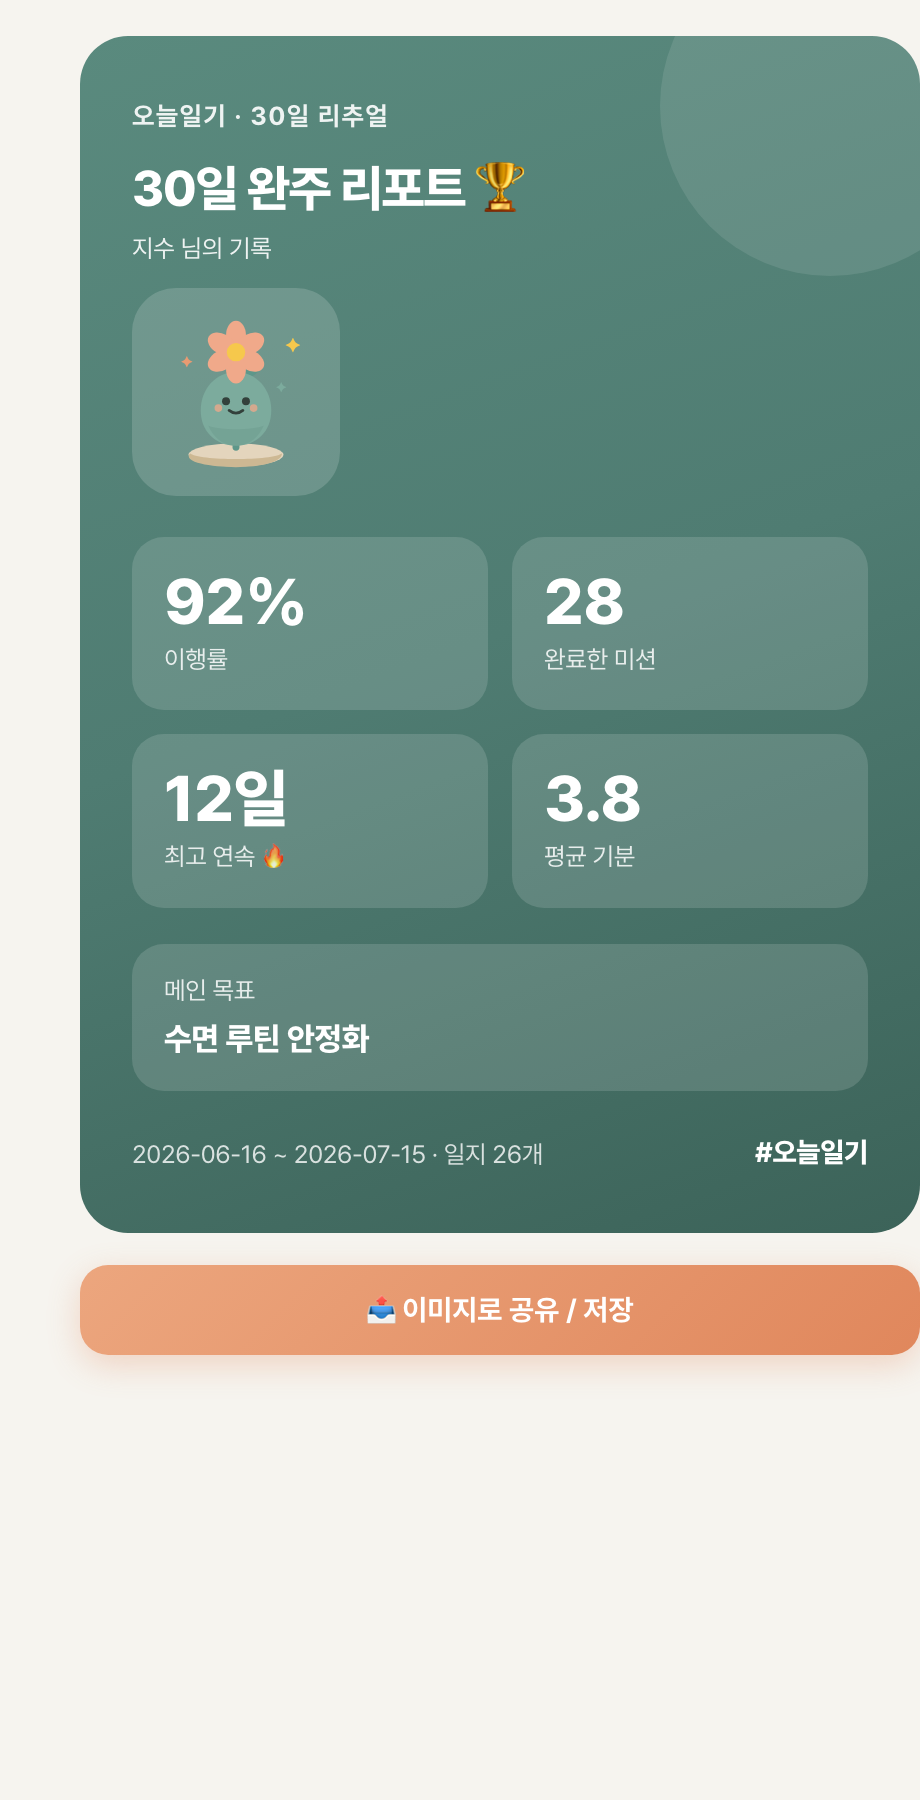
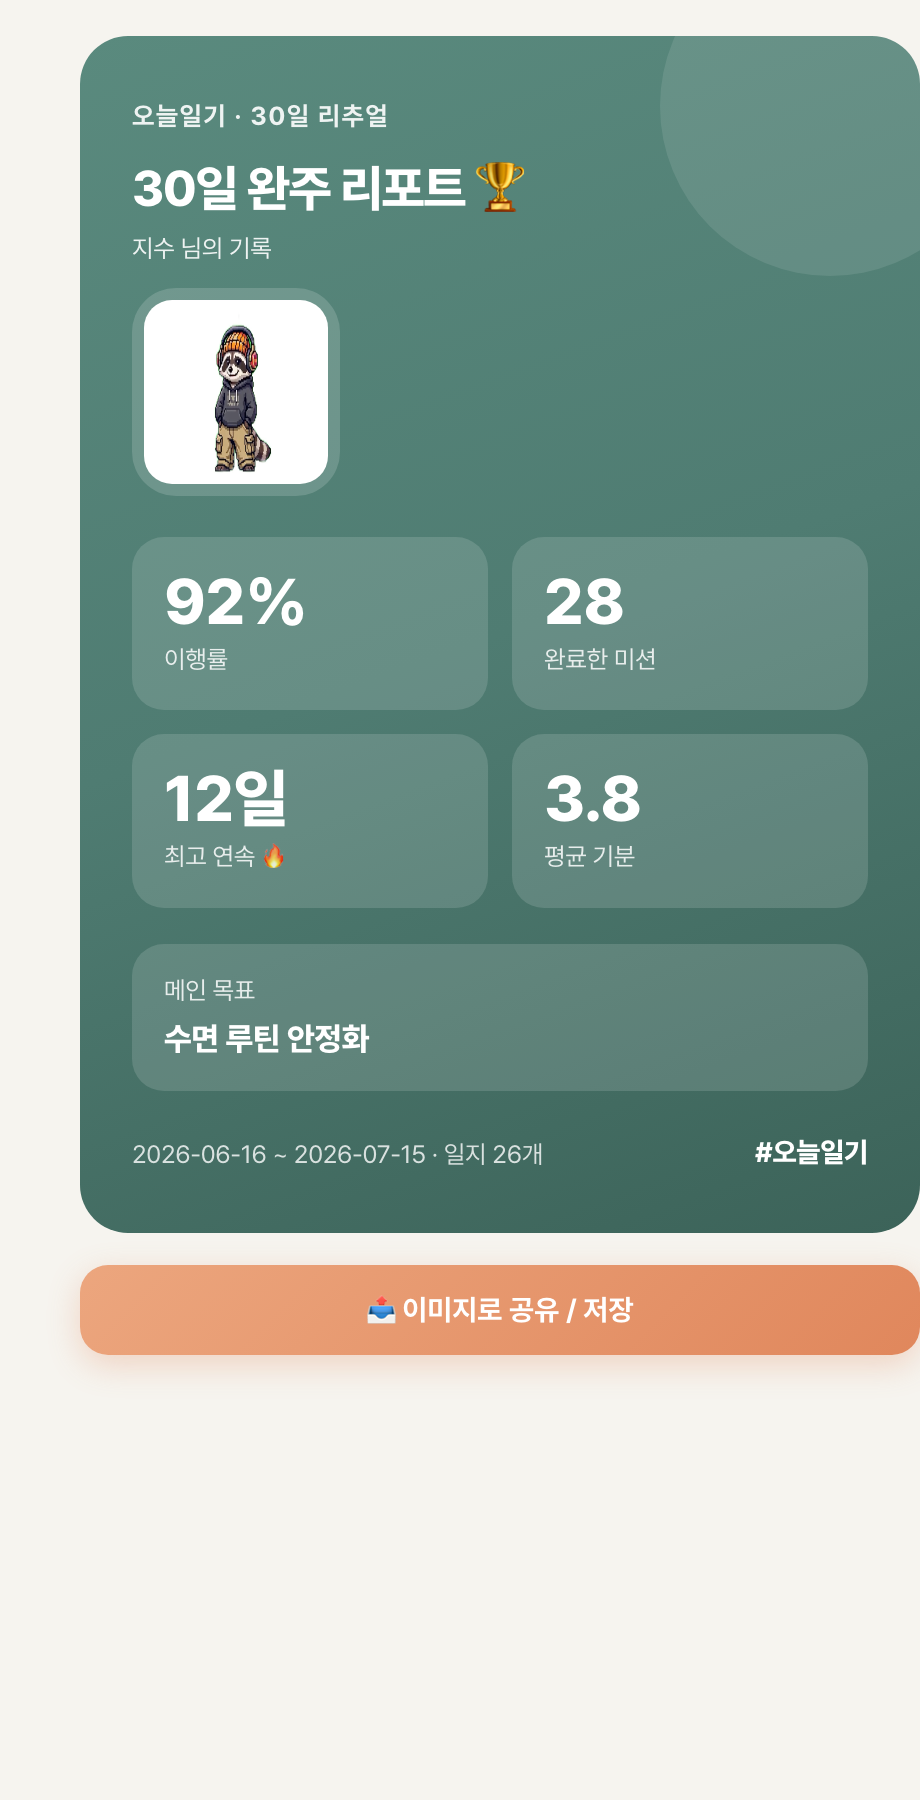
캐릭터 단계별 응원 메시지 + 가이드북 재작성(PDF)
- 오늘이(너구리) 4단계에 이미지별 응원 한 줄(첫걸음/차근차근/몰입/완전체), 방전(시듦) 문구
- 성장 가이드 행 메시지 중심으로, '단계·단계' 중복 제거
- 가이드북 PDF 재작성: 표지 컴팩트·여백 축소·페이지 안 잘리게(break-inside)
- 홈/리캡 예시 + 캐릭터 컷을 새 너구리 정지컷으로 교체

Changed region(s): [[0.1522, 0.1556, 0.3652, 0.28]]

diff --git a/docs/guidebook.html b/docs/guidebook.html
@@ -3,55 +3,55 @@
 <head>
 <meta charset="UTF-8">
 <style>
-  @page { size: A4; margin: 15mm 14mm; }
+  @page { size: A4; margin: 11mm 12mm; }
   * { box-sizing: border-box; }
   body { font-family: 'Apple SD Gothic Neo','Pretendard','Malgun Gothic',sans-serif;
-    color: #262B29; line-height: 1.6; margin: 0; -webkit-print-color-adjust: exact; print-color-adjust: exact; }
-  h1 { font-size: 24px; letter-spacing: -0.03em; margin: 0 0 6px; }
-  h2 { font-size: 19px; letter-spacing: -0.02em; margin: 30px 0 6px; padding-bottom: 6px;
-    border-bottom: 2px solid #4F7C72; color: #3C6359; }
-  h3 { font-size: 15.5px; margin: 18px 0 6px; color: #2E3A36; }
-  p, li { font-size: 13px; color: #3a423e; }
+    color: #262B29; line-height: 1.5; margin: 0; -webkit-print-color-adjust: exact; print-color-adjust: exact; font-size: 12.5px; }
+  h1 { font-size: 22px; letter-spacing: -0.03em; margin: 0; }
+  h2 { font-size: 17px; letter-spacing: -0.02em; margin: 18px 0 8px; padding-bottom: 5px;
+    border-bottom: 2px solid #4F7C72; color: #3C6359; break-after: avoid; }
+  h3 { font-size: 14px; margin: 0 0 5px; color: #2E3A36; }
+  p, li { font-size: 12px; color: #3a423e; margin: 4px 0; }
+  ul { margin: 4px 0; padding-left: 17px; }
+  li { margin: 2px 0; }
   .muted { color: #8B948F; }
-  .cover { height: 250mm; display: flex; flex-direction: column; justify-content: center;
-    page-break-after: always; }
-  .cover .logo { width: 60px; height: 60px; border-radius: 18px;
-    background: linear-gradient(135deg,#4F7C72,#3C6359); position: relative; margin-bottom: 22px; }
-  .cover .logo span { position: absolute; inset: 17px; border: 3px solid rgba(255,255,255,.9); border-radius: 6px; }
-  .cover h1 { font-size: 38px; }
-  .cover .sub { font-size: 16px; color: #4F7C72; font-weight: 700; margin-top: 8px; }
-  .cover .desc { font-size: 14px; color: #8B948F; margin-top: 18px; line-height: 1.8; }
-  .screen { display: flex; gap: 18px; align-items: flex-start; break-inside: avoid; margin: 16px 0 22px; }
-  .screen img { width: 215px; flex-shrink: 0; border: 1px solid #ECE8E0; border-radius: 14px; }
+  .cover { display: flex; align-items: center; gap: 14px; }
+  .cover .logo { width: 46px; height: 46px; border-radius: 14px; flex-shrink: 0;
+    background: linear-gradient(135deg,#4F7C72,#3C6359); position: relative; }
+  .cover .logo span { position: absolute; inset: 13px; border: 2.5px solid rgba(255,255,255,.9); border-radius: 5px; }
+  .cover .sub { font-size: 13px; color: #4F7C72; font-weight: 700; margin-top: 3px; }
+  .lead { background: #F1F5F3; border-radius: 10px; padding: 9px 13px; font-size: 12px; color: #44504b; margin: 10px 0 4px; }
+  .screen { display: flex; gap: 16px; align-items: flex-start; break-inside: avoid; margin: 10px 0; }
+  .screen img { width: 196px; flex-shrink: 0; border: 1px solid #ECE8E0; border-radius: 12px; }
   .screen .txt { flex: 1; }
-  .wide { break-inside: avoid; margin: 14px 0 22px; }
-  .wide img { width: 100%; border: 1px solid #ECE8E0; border-radius: 14px; }
-  .chip { display: inline-block; background: #E7F0ED; color: #3C6359; font-weight: 700;
-    font-size: 11px; padding: 2px 9px; border-radius: 999px; }
-  table { border-collapse: collapse; width: 100%; margin: 8px 0; font-size: 12.5px; }
-  th, td { border: 1px solid #ECE8E0; padding: 6px 9px; text-align: left; }
-  th { background: #FBFAF7; }
-  .note { background: #FBF3DE; border: 1px solid #EBDBA8; border-radius: 10px; padding: 10px 13px;
-    font-size: 12.5px; color: #7a6a2e; margin: 10px 0; }
+  .wide { break-inside: avoid; margin: 8px 0 12px; }
+  .wide img { width: 100%; border: 1px solid #ECE8E0; border-radius: 12px; }
   .sec { break-inside: avoid; }
-  ul { margin: 6px 0; padding-left: 18px; }
+  .chip { display: inline-block; background: #E7F0ED; color: #3C6359; font-weight: 700; font-size: 11px; padding: 1px 8px; border-radius: 999px; }
+  table { border-collapse: collapse; width: 100%; margin: 6px 0; font-size: 12px; }
+  th, td { border: 1px solid #ECE8E0; padding: 5px 8px; text-align: left; }
+  th { background: #FBFAF7; }
+  .note { background: #FBF3DE; border: 1px solid #EBDBA8; border-radius: 9px; padding: 8px 12px; font-size: 11.5px; color: #7a6a2e; margin: 8px 0; }
+  .charrow { display: grid; grid-template-columns: repeat(4,1fr); gap: 10px; break-inside: avoid; }
+  .charrow .c { border: 1px solid #ECE8E0; border-radius: 12px; padding: 8px; text-align: center; }
+  .charrow .c img { width: 100%; border-radius: 8px; }
+  .charrow .c b { font-size: 12px; }
+  .charrow .c .m { font-size: 10.5px; color: #4a544f; margin: 3px 0; line-height: 1.35; }
+  .charrow .c .cond { font-size: 10px; color: #8B948F; }
+  .wiltbox { display: flex; align-items: center; gap: 12px; border: 1px solid #ECE8E0; border-radius: 12px; padding: 10px 12px; margin-top: 10px; break-inside: avoid; background: #FBFAF7; }
+  .wiltbox img { width: 70px; border-radius: 8px; }
 </style>
 </head>
 <body>
 
-<!-- 표지 -->
 <div class="cover">
   <div class="logo"><span></span></div>
-  <h1>오늘일기 가이드북</h1>
-  <div class="sub">30일 코칭형 습관 · 일기 앱</div>
-  <div class="desc">멤버는 매일 미션을 인증하고 마음을 기록하고,<br>
-    코치는 곁에서 살펴보며 피드백합니다.<br>
-    — 멤버 / 코치 사용 가이드</div>
+  <div><h1>오늘일기 가이드북</h1><div class="sub">30일 코칭형 습관 · 일기 앱 — 멤버 / 코치 사용 가이드</div></div>
 </div>
+<div class="lead">멤버는 매일 미션을 인증하고 마음을 기록하고, 코치는 곁에서 살펴보며 피드백합니다. 아래 화면은 샘플 데이터 예시입니다.</div>
 
 <h2>1. 시작하기 — 가입</h2>
 <div class="sec">
-  <p>가입 화면에서 <b>멤버 / 코치</b>를 선택합니다.</p>
   <ul>
     <li><b>멤버로 시작</b> → 이름 + <b>담당 코치 이름</b> 입력 (코치 가입 이름과 정확히 일치해야 연결)</li>
     <li><b>코치로 시작</b> → 이름 입력 후 코치 패널로 진입</li>
@@ -62,12 +62,11 @@
 <h2>2. 멤버 가이드</h2>
 
 <div class="screen"><img src="screens/home.png">
-  <div class="txt"><h3>🏠 홈 — 오늘 할 일을 한눈에</h3>
-  <ul><li><b>오늘이 카드</b>: 미션 완료할수록 캐릭터가 성장 (탭 시 성장 가이드)</li>
+  <div class="txt"><h3>🏠 홈</h3>
+  <ul><li><b>오늘이</b>: 미션 완료할수록 캐릭터가 성장 (탭 시 성장 가이드)</li>
   <li><b>오늘의 미션</b>: 코치가 정한 메인 목표 — <span class="chip">인증하기</span>로 사진+메모 제출</li>
   <li><b>🔥 스트릭</b>: 연속 인증 일수</li>
-  <li><b>기분 기록</b>: 1~5점 + 한 줄</li>
-  <li><b>30일 여정</b>: 이행률·완료/검토중/놓침/남음</li></ul></div></div>
+  <li><b>기분 기록</b> + <b>30일 여정</b> 요약(이행률·완료/검토중/놓침/남음)</li></ul></div></div>
 
 <div class="screen"><img src="screens/tracker.png">
   <div class="txt"><h3>📅 30일 트래커</h3>
@@ -76,41 +75,37 @@
 
 <div class="screen"><img src="screens/journal.png">
   <div class="txt"><h3>📖 일지 — 기록 모아보기</h3>
-  <ul><li>최근 14일 <b>기분·에너지 추이 그래프</b> + 평균</li>
+  <ul><li>최근 14일 <b>기분·에너지 추이</b> + 평균</li>
   <li><b>누적 타임라인</b>: 하루 카드에 미션 인증·느낀점·코치 피드백이 함께</li>
-  <li>✎ 로 오늘 일지 작성 (기분/에너지/메모)</li></ul></div></div>
+  <li>✎ 로 오늘 일지 작성</li></ul></div></div>
 
 <div class="screen"><img src="screens/goals.png">
-  <div class="txt"><h3>🎯 목표 — 메인 + 서브</h3>
+  <div class="txt"><h3>🎯 목표</h3>
   <ul><li>상단: <b>메인 목표</b>(코치 설정, = 오늘의 미션)</li>
-  <li>아래: 내가 관리하는 <b>서브 목표</b> — 추가·수정·삭제 + 주차별 진척</li></ul></div></div>
+  <li>아래: <b>서브 목표</b> — 추가·수정·삭제 + 주차별 진척</li></ul></div></div>
 
 <div class="screen"><img src="screens/profile.png">
   <div class="txt"><h3>🙂 마이페이지</h3>
   <ul><li>프로필·다짐 문구·DAY/스트릭/이행률</li>
-  <li><b>배지 컬렉션</b>: 첫인증·7일연속·기록왕·성실러·절반·완주</li>
-  <li>이번 달 요약 + <b>30일 리캡 카드</b> 버튼, 설정(다크모드 등)</li></ul></div></div>
+  <li><b>배지 컬렉션</b> + 이번 달 요약</li>
+  <li><b>30일 리캡 카드</b> 버튼, 설정(다크모드 등)</li></ul></div></div>
 
 <div class="screen"><img src="screens/recap.png">
-  <div class="txt"><h3>📤 30일 리캡 카드 (공유용)</h3>
-  <ul><li>이행률·완료·최고 연속·평균 기분·메인 목표를 한 장으로</li>
+  <div class="txt"><h3>📤 30일 리캡 카드</h3>
+  <ul><li>이행률·완료·최고 연속·평균 기분을 한 장으로</li>
   <li>이미지로 저장/공유 → 인스타 스토리·카톡 등</li></ul></div></div>
 
 <h2>3. 코치 가이드</h2>
 
 <div class="wide"><h3>🧭 대시보드 — 내 멤버 한눈에</h3>
   <img src="screens/admin.png">
-  <ul><li>상단 탭: <b>대시보드 · 검토 · 멤버 연결</b></li>
-  <li>KPI: 함께하는 멤버 · 살펴볼 신호 · 검토 대기</li>
-  <li><b>살펴볼 신호</b>: 연속 미제출/기분 하락 자동 알림</li>
-  <li><b>멤버 목록</b>: 행을 누르면 상세로 이동</li></ul></div>
+  <ul><li>탭: <b>대시보드 · 검토 · 멤버 연결</b> / KPI: 멤버 수 · 살펴볼 신호 · 검토 대기</li>
+  <li><b>살펴볼 신호</b>(연속 미제출·기분 하락 자동) · 멤버 행 클릭 시 상세로</li></ul></div>
 
-<div class="wide"><h3>👤 멤버 상세 — 깊이 있게 관리</h3>
+<div class="wide"><h3>👤 멤버 상세</h3>
   <img src="screens/detail.png">
-  <ul><li><b>메인 목표 수정</b>(멤버 홈 미션으로 반영)</li>
-  <li>이행률·평균기분 · <b>30일 트래커</b> · 기분·에너지 추이 · 서브 목표</li>
-  <li><b>기록 타임라인</b>: 멤버 인증/느낀점/내 피드백</li>
-  <li><b>코치 노트</b>: 날짜 지정 상담·관찰 기록 + 다음 포커스</li></ul></div>
+  <ul><li><b>메인 목표 수정</b> · 이행률·평균기분 · 30일 트래커 · 기분 추이 · 서브 목표</li>
+  <li><b>기록 타임라인</b>(인증/느낀점/내 피드백) · <b>코치 노트</b>(날짜 지정)</li></ul></div>
 
 <div class="sec"><h3>✅ 검토 & 연결</h3>
   <ul><li><b>검토</b>: 올라온 인증을 사진과 함께 확인 → 승인/반려 + 코멘트(피드백)</li>
@@ -118,10 +113,15 @@
 
 <h2>4. 캐릭터 ‘오늘이’ 성장</h2>
 <div class="sec">
-  <p>미션을 완료할수록 캐릭터가 단계별로 자랍니다 (홈·리캡·성장가이드에 등장).</p>
-  <div class="note">⚠️ 캐릭터는 교체 예정입니다. 아래는 임시 버전이며, 새 캐릭터로 바꿀 수 있습니다.</div>
-  <img src="screens/character.png" style="width:100%;border:1px solid #ECE8E0;border-radius:14px;margin-top:6px;">
-  <p style="margin-top:8px;">성장 기준(누적 완료 미션): 씨앗(0) → 떡잎(1~2) → 새싹(3~6) → 쑥쑥(7~13) → 꽃봉오리(14~21) → 활짝(22~29) → 만개(30 완주). 연속 미제출 시 <b>시듦 상태</b>.</p>
+  <p>미션을 완료할수록 너구리 <b>‘오늘이’</b>가 4단계로 자라요.</p>
+  <div class="charrow">
+    <div class="c"><img src="screens/char1.png"><b>1. 첫걸음</b><div class="m">포근하게 첫걸음 떼는 중 — 천천히 가도 괜찮아요 🧣</div><div class="cond">미션 0~7개</div></div>
+    <div class="c"><img src="screens/char2.png"><b>2. 차근차근</b><div class="m">따뜻한 차 한 잔처럼 꾸준함이 쌓이는 중 ☕</div><div class="cond">미션 8~15개</div></div>
+    <div class="c"><img src="screens/char3.png"><b>3. 몰입 모드</b><div class="m">집중하는 모습 멋져요. 조금만 더! 📖</div><div class="cond">미션 16~23개</div></div>
+    <div class="c"><img src="screens/char4.png"><b>4. 완전체</b><div class="m">어엿하게 자랐어요. 끝까지 함께 🏆</div><div class="cond">미션 24~30개</div></div>
+  </div>
+  <div class="wiltbox"><img src="screens/charwilt.png">
+    <div><b>⚡ 방전 상태</b><div class="muted" style="font-size:11.5px;">연속으로 인증을 놓치면 오늘이가 방전돼요. 오늘 인증 한 번이면 다시 충전됩니다.</div></div></div>
 </div>
 
 <h2>5. 핵심 개념 & 운영 팁</h2>
@@ -138,7 +138,7 @@
     <li>매일 자정(KST) 자동으로 날짜가 넘어가고, 미제출은 ‘놓침’ 처리됩니다.</li>
     <li>멤버 인증은 코치 <b>검토</b> 탭에 쌓입니다 — 빨리 피드백할수록 동기부여 ↑.</li>
   </ul>
-  <p class="muted" style="font-size:11px;margin-top:18px;">* 본 가이드북의 화면은 샘플 데이터 예시이며 실제 데이터에 따라 다르게 보입니다.</p>
+  <p class="muted" style="font-size:10.5px;margin-top:12px;">* 화면은 샘플 데이터 예시이며 실제 데이터에 따라 다르게 보입니다.</p>
 </div>
 
 </body>

diff --git a/character.html b/character.html
@@ -23,8 +23,8 @@
 
     <div class="card" style="display:flex;gap:14px;align-items:center;background:var(--surface-2);">
       <div style="width:72px;flex-shrink:0;text-align:center;" id="wilt-art"></div>
-      <div><div style="font-weight:800;">💧 시듦 상태</div>
-        <div class="small muted">연속으로 인증을 놓치면 오늘이가 시무룩해져요. 오늘 인증으로 다시 생기를 찾아줄 수 있어요.</div></div>
+      <div><div style="font-weight:800;">⚡ 방전 상태</div>
+        <div class="small muted">연속으로 인증을 놓치면 오늘이가 방전돼요. 오늘 인증 한 번이면 다시 충전됩니다.</div></div>
     </div>
   </main>
 
@@ -36,18 +36,19 @@
 <script src="assets/api.js"></script>
 <script src="assets/app.js"></script>
 <script>
-  const COND = ['미션 0~7개 · 시작 단계', '미션 8~15개', '미션 16~23개', '미션 24~30개 · 완주 🏆'];
+  const COND = ['미션 0~7개', '미션 8~15개', '미션 16~23개', '미션 24~30개 · 완주 🏆'];
 
-  // 단계 목록 즉시 렌더 (로그인 불필요) — 1~4단계 영상
+  // 단계 목록 즉시 렌더 (로그인 불필요) — 1~4단계 영상 + 응원 메시지
   document.getElementById('list').innerHTML = CHAR4_LABELS.map((label, idx) => {
     const n = idx + 1;
     return `<div class="card stage-row" data-stage="${n}" style="display:flex;gap:14px;align-items:center;">
       <div style="width:90px;flex-shrink:0;text-align:center;">${charVideo(n, { size: 84 })}</div>
       <div style="flex:1;">
-        <div class="between" style="margin-bottom:3px;">
-          <b style="font-size:15px;">${n}단계 · ${label}</b>
+        <div class="between" style="margin-bottom:4px;">
+          <b style="font-size:15px;">${n}. ${label}</b>
           <span class="cur-tag" style="display:none;font-size:11px;font-weight:800;color:var(--primary-d);background:var(--primary-soft);padding:3px 9px;border-radius:999px;">현재</span>
         </div>
+        <div class="small" style="color:var(--text);margin-bottom:3px;">${CHAR4_MSG[idx]}</div>
         <div class="small muted">${COND[idx]}</div>
       </div>
     </div>`;

diff --git a/assets/app.js b/assets/app.js
@@ -187,11 +187,17 @@ function todayiSvg(stage, opt = {}) {
 }
 
 /* ===== 마스코트 영상(오늘이) — 30일을 4단계 + 시듦 ===== */
-const CHAR4_LABELS = ['1단계', '2단계', '3단계', '4단계'];
+const CHAR4_LABELS = ['첫걸음', '차근차근', '몰입 모드', '완전체'];
+const CHAR4_MSG = [
+  '포근하게 첫걸음 떼는 중 — 천천히 가도 괜찮아요 🧣',
+  '따뜻한 차 한 잔처럼, 꾸준함이 쌓이고 있어요 ☕',
+  '집중하는 모습 멋져요. 조금만 더 가볼까요? 📖',
+  '어엿하게 자랐어요. 끝까지 함께 가요 🏆',
+];
 function charStage4(done = 0) { return done >= 24 ? 4 : done >= 16 ? 3 : done >= 8 ? 2 : 1; }
 function charStageMsg(stage, wilt) {
-  if (wilt) return '오늘이가 시무룩… 오늘 인증으로 기운을 채워주세요 💧';
-  return ['오늘이가 깨어났어요!', '쑥쑥 자라는 중!', '곧 활짝 필 거예요', '완전히 자랐어요! 🏆'][stage - 1];
+  if (wilt) return '오늘이가 방전됐어요. 오늘 인증으로 충전해줘요 ⚡';
+  return CHAR4_MSG[stage - 1];
 }
 // which: 1~4 또는 'wilt'
 function charVideo(which, opt = {}) {

diff --git a/GUIDEBOOK.md b/GUIDEBOOK.md
@@ -97,13 +97,15 @@
 
 ## 4. 캐릭터 ‘오늘이’ 성장
 
-미션을 완료할수록 캐릭터가 단계별로 자랍니다 (홈·리캡·성장가이드에 등장).
+미션을 완료할수록 너구리 **‘오늘이’**가 4단계로 자랍니다 (홈·리캡·성장가이드에 등장).
 
-> ⚠️ **캐릭터 교체 예정** — 아래는 임시 버전입니다. 새 캐릭터는 [`docs/character/`](docs/character/README.md) 규격에 맞춰 넣으면 가이드북과 앱에 반영됩니다.
+| | 1. 첫걸음 | 2. 차근차근 | 3. 몰입 모드 | 4. 완전체 |
+|---|---|---|---|---|
+| | <img src="docs/screens/char1.png" width="90"> | <img src="docs/screens/char2.png" width="90"> | <img src="docs/screens/char3.png" width="90"> | <img src="docs/screens/char4.png" width="90"> |
+| 메시지 | 포근하게 첫걸음 🧣 | 꾸준함이 쌓이는 중 ☕ | 집중하는 모습 멋져요 📖 | 어엿하게 자랐어요 🏆 |
+| 조건 | 미션 0~7개 | 8~15개 | 16~23개 | 24~30개 |
 
-<img src="docs/screens/character.png" width="560">
-
-성장 기준(누적 완료 미션): 씨앗(0) → 떡잎(1~2) → 새싹(3~6) → 쑥쑥(7~13) → 꽃봉오리(14~21) → 활짝(22~29) → 만개(30 완주). 연속 미제출 시 **시듦 상태**.
+**⚡ 방전 상태** <img src="docs/screens/charwilt.png" width="70"> — 연속으로 인증을 놓치면 오늘이가 방전돼요. 오늘 인증 한 번이면 다시 충전됩니다.
 
 ---
 